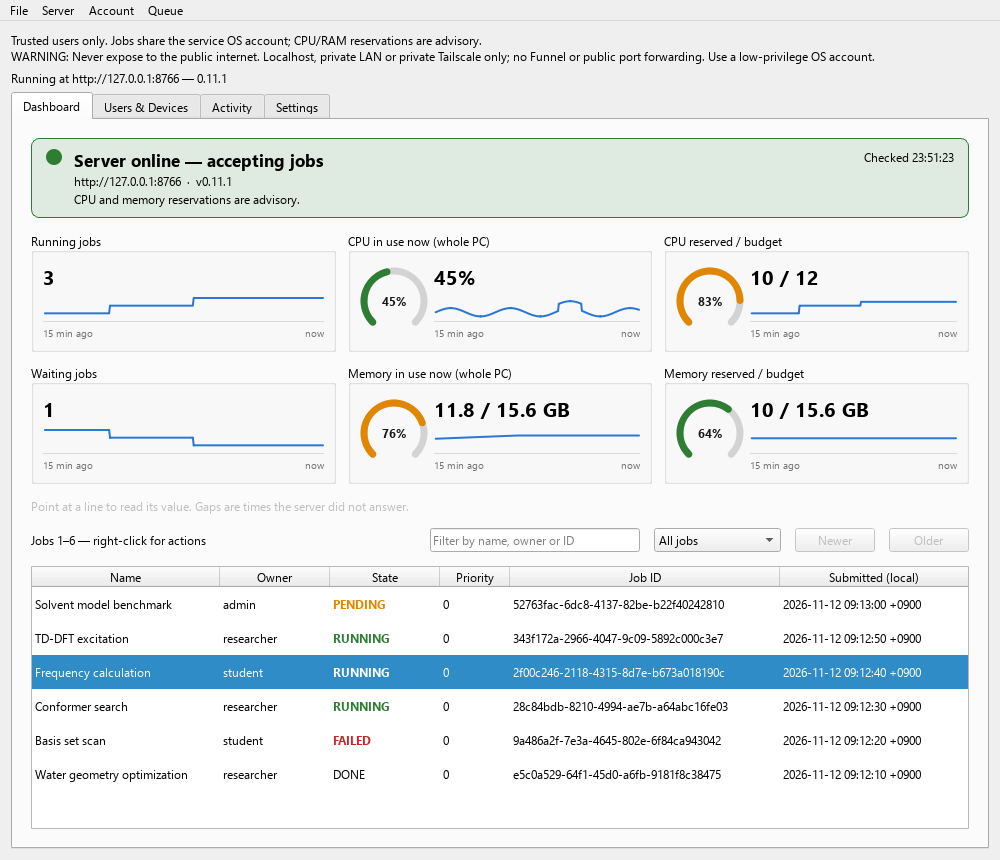
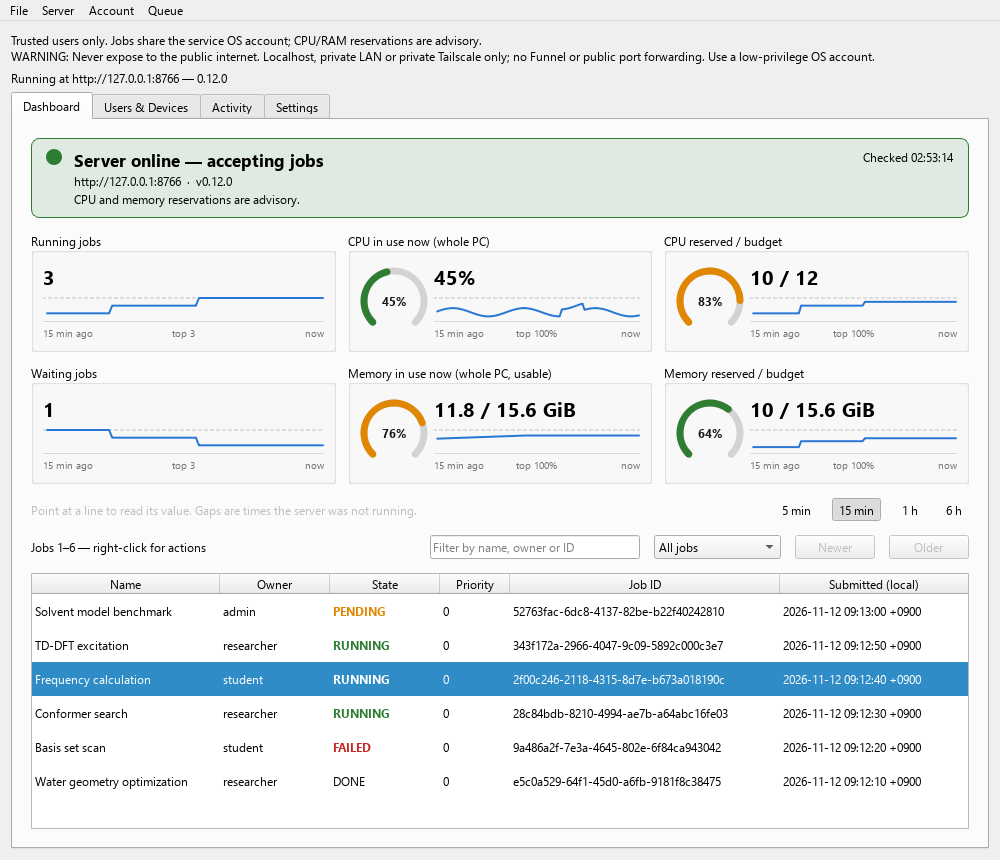
Web UI draws server history; mark the top of each trend; 0.12.0
The web overview shows the last five minutes from the server's own record
instead of the tab's readings. Both the dashboard and the Web UI draw a
dashed line at the top of the scale and name what it stands for.

diff --git a/job_server/web/app.css b/job_server/web/app.css
@@ -1,5 +1,5 @@
 @font-face{font-family:system;src:local("Segoe UI")}
-:root{font-family:system,Inter,ui-sans-serif,sans-serif;color:#193237;background:#f4f6f5;font-synthesis:none;--line:#dce5e2;--muted:#637774;--teal:#126958;--nav:#142e30}*{box-sizing:border-box}body{margin:0;display:flex;min-height:100vh}button,input,textarea,select{font:inherit}button{cursor:pointer;border:1px solid #cad8d3;background:white;border-radius:7px;color:#254b44;font-size:13px;font-weight:600;padding:10px 15px;white-space:nowrap}button:hover{background:#edf5f1}tr.clickable{cursor:pointer}tr.clickable:hover td{background:#f3f8f6}button:disabled{opacity:.45;cursor:default}button:focus-visible,a:focus-visible{outline:3px solid #78cbb1;outline-offset:3px}.primary{background:var(--teal);color:white;border-color:var(--teal)}.primary:hover{background:#0e5144}[hidden]{display:none!important}.sidebar{width:236px;background:var(--nav);color:#dcece6;padding:35px 24px;position:fixed;inset:0 auto 0 0;display:flex;flex-direction:column}.brand{display:flex;align-items:center;gap:12px;text-decoration:none;color:white;font-size:19px;font-weight:700;letter-spacing:-.5px}.brand-mark{background:#b8e4ca;border-radius:10px;width:36px;height:36px;display:grid;place-items:center;color:#164f3d;font-size:23px}.brand small{display:block;font-size:9px;letter-spacing:2.3px;font-weight:500;margin-top:4px;color:#9bb9ad}.nav-caption{font-size:10px;letter-spacing:1.5px;color:#83a69b;margin:62px 12px 16px}.nav{width:100%;text-align:left;border:0;background:transparent;color:#a8c4bb;margin:3px 0;padding:14px 16px}.nav.active,.nav:hover{background:#244541;color:#e2f8e9}.sidebar-bottom{margin-top:auto;border-top:1px solid #35524c;padding-top:26px}.preview{font-size:9px;letter-spacing:1.4px;color:#b8ddc7}.sidebar-bottom p{font-size:12px;color:#8fb0a4;line-height:1.8}.quiet{border-color:#446b5d;background:transparent;color:white}main{margin-left:236px;padding:42px 48px;width:calc(100% - 236px);max-width:1600px}header{display:flex;justify-content:space-between;align-items:center;margin-bottom:38px}.eyebrow{font-size:10px;font-weight:700;letter-spacing:1.8px;color:var(--muted)}h1{font-size:30px;font-weight:600;margin:10px 0 0;letter-spacing:-1px}.connection{display:flex;align-items:center;gap:9px;font-size:12px;color:var(--muted)}.dot{height:7px;width:7px;display:block;border-radius:50%;background:#c5ccca}.dot.online{background:#2e956f}.connection button{margin-left:15px}.welcome{background:#e2eee7;border:1px solid #d5e5da;padding:34px 38px;border-radius:12px;display:flex;align-items:center;justify-content:space-between;gap:20px}.welcome .eyebrow{color:#477765}h2{font-size:22px;font-weight:600;letter-spacing:-.6px}.welcome h2{font-size:30px;line-height:1.2;margin:14px 0}.welcome p{color:#567368;font-size:14px;line-height:1.7;margin-bottom:0}.welcome .primary{padding:13px 19px}.welcome .primary span{padding-left:20px}.metrics{display:grid;grid-template-columns:repeat(4,1fr);gap:16px;margin:24px 0 38px}.metrics article{background:white;border:1px solid var(--line);border-radius:10px;padding:24px}.metrics span{display:block;color:var(--muted);font-size:12px}.metrics strong{display:block;font-size:32px;font-weight:500;margin:13px 0;letter-spacing:-1px}.metrics small{font-size:11px;color:#7e9189}.metrics article{position:relative}.dial{position:absolute;top:14px;right:14px;width:50px;height:50px}.dial path{fill:none;stroke-width:4.5;stroke-linecap:round}.dial-track{stroke:#e3e9e7}.dial-value{stroke:#2e7d32}.dial-text{font-size:10px;font-weight:600;fill:#52655f;text-anchor:middle}.dial-value.warn{stroke:#e08600}.dial-value.high{stroke:#c62828}.dial-value.unknown{opacity:0}.trend{margin-top:12px}.trend svg{display:block;width:100%;height:30px;overflow:visible}.trend-base{stroke:#e3e9e7;stroke-width:1}.trend-line{fill:none;stroke:#2a78d6;stroke-width:2;stroke-linejoin:round;stroke-linecap:round}.trend-cross{stroke:#9aa9a4;stroke-width:1}.trend-dot{fill:#2a78d6;stroke:white;stroke-width:2}.trend-axis{display:flex;justify-content:space-between;font-size:10px;color:#8d9d97;margin-top:3px}.trend-tip{position:fixed;z-index:20;pointer-events:none;background:#193237;color:white;font-size:12px;padding:5px 8px;border-radius:6px;white-space:nowrap}.section-head{display:flex;justify-content:space-between;align-items:center;margin:20px 0}.section-head h2,.section-head h3{margin:0 0 7px}.section-head p{margin:0;color:var(--muted);font-size:12px}.actions{display:flex;gap:8px}.table-wrap{background:white;border:1px solid var(--line);border-radius:10px;overflow:auto}table{border-collapse:collapse;width:100%;text-align:left;font-size:13px}th{background:#fafcfa;color:#7a8e85;font-size:10px;text-transform:uppercase;letter-spacing:1px;font-weight:600;padding:18px 22px;border-bottom:1px solid var(--line)}td{padding:19px 22px;border-bottom:1px solid #edf1ed}tr:last-child td{border:0}.job-name{font-weight:600}.job-id{display:block;color:#8a9b95;font-size:10px;margin-top:5px}.badge{display:inline-block;font-size:10px;letter-spacing:.4px;padding:6px 9px;border-radius:5px;background:#edf1ef;color:#60766a}.badge.running,.badge.done{background:#dff0e6;color:#21694c}.badge.pending,.badge.queued,.badge.uploading{background:#fbefd6;color:#92692c}.badge.failed,.badge.lost,.badge.cancelled,.badge.blocked{background:#f8e5e0;color:#9f5546}.empty{text-align:center;color:#8a9b92;padding:70px 20px}.footnote{font-size:11px;line-height:1.7;color:#86998f;margin-top:26px}.notice{background:#fff3d4;border:1px solid #ecd5a1;border-radius:7px;padding:14px 20px;font-size:13px;margin-bottom:20px}.card{background:white;border:1px solid var(--line);padding:28px;border-radius:10px}.form-card{max-width:830px}label{display:block;font-size:12px;font-weight:600;margin-bottom:20px;color:#466356}input,textarea,select{display:block;width:100%;border:1px solid #ccd9d1;border-radius:6px;background:#fbfdfb;color:#244737;padding:12px;margin-top:8px;outline-color:#67b695}textarea{font-family:ui-monospace,Consolas,monospace;font-size:13px;resize:vertical}label small{display:block;font-weight:400;font-size:11px;color:#809488;margin-top:9px;line-height:1.5}.form-row{display:flex;gap:20px;align-items:end}.form-row label{flex:1}.form-actions{display:flex;justify-content:space-between;align-items:center;gap:14px;margin-top:10px}.form-actions span{font-size:12px;color:var(--muted)}.checkbox{display:flex;align-items:center;gap:10px}.checkbox input{width:16px;margin:0}.device-title{margin-top:35px}.paging{display:flex;justify-content:flex-end;align-items:center;gap:16px;margin-top:16px;font-size:12px;color:var(--muted)}pre{white-space:pre-wrap;overflow-wrap:anywhere;font:12px/1.7 ui-monospace,Consolas,monospace;background:#eaf0eb;padding:20px;border-radius:8px}.log{background:#18332e;color:#c6e4d0;min-height:180px;max-height:400px;overflow:auto}.results{padding:0;list-style:none}.results li{display:flex;justify-content:space-between;align-items:center;background:white;border-bottom:1px solid var(--line);padding:14px 18px;font-size:13px}.results small{color:var(--muted);padding-left:12px}dialog{border:1px solid var(--line);border-radius:14px;padding:34px;max-width:470px;width:calc(100vw - 40px);color:#244135}dialog::backdrop{background:#112e28aa;backdrop-filter:blur(4px)}dialog p{font-size:13px;color:var(--muted);line-height:1.6}dialog h2{font-size:26px}#login-status{color:#a65236}
+:root{font-family:system,Inter,ui-sans-serif,sans-serif;color:#193237;background:#f4f6f5;font-synthesis:none;--line:#dce5e2;--muted:#637774;--teal:#126958;--nav:#142e30}*{box-sizing:border-box}body{margin:0;display:flex;min-height:100vh}button,input,textarea,select{font:inherit}button{cursor:pointer;border:1px solid #cad8d3;background:white;border-radius:7px;color:#254b44;font-size:13px;font-weight:600;padding:10px 15px;white-space:nowrap}button:hover{background:#edf5f1}tr.clickable{cursor:pointer}tr.clickable:hover td{background:#f3f8f6}button:disabled{opacity:.45;cursor:default}button:focus-visible,a:focus-visible{outline:3px solid #78cbb1;outline-offset:3px}.primary{background:var(--teal);color:white;border-color:var(--teal)}.primary:hover{background:#0e5144}[hidden]{display:none!important}.sidebar{width:236px;background:var(--nav);color:#dcece6;padding:35px 24px;position:fixed;inset:0 auto 0 0;display:flex;flex-direction:column}.brand{display:flex;align-items:center;gap:12px;text-decoration:none;color:white;font-size:19px;font-weight:700;letter-spacing:-.5px}.brand-mark{background:#b8e4ca;border-radius:10px;width:36px;height:36px;display:grid;place-items:center;color:#164f3d;font-size:23px}.brand small{display:block;font-size:9px;letter-spacing:2.3px;font-weight:500;margin-top:4px;color:#9bb9ad}.nav-caption{font-size:10px;letter-spacing:1.5px;color:#83a69b;margin:62px 12px 16px}.nav{width:100%;text-align:left;border:0;background:transparent;color:#a8c4bb;margin:3px 0;padding:14px 16px}.nav.active,.nav:hover{background:#244541;color:#e2f8e9}.sidebar-bottom{margin-top:auto;border-top:1px solid #35524c;padding-top:26px}.preview{font-size:9px;letter-spacing:1.4px;color:#b8ddc7}.sidebar-bottom p{font-size:12px;color:#8fb0a4;line-height:1.8}.quiet{border-color:#446b5d;background:transparent;color:white}main{margin-left:236px;padding:42px 48px;width:calc(100% - 236px);max-width:1600px}header{display:flex;justify-content:space-between;align-items:center;margin-bottom:38px}.eyebrow{font-size:10px;font-weight:700;letter-spacing:1.8px;color:var(--muted)}h1{font-size:30px;font-weight:600;margin:10px 0 0;letter-spacing:-1px}.connection{display:flex;align-items:center;gap:9px;font-size:12px;color:var(--muted)}.dot{height:7px;width:7px;display:block;border-radius:50%;background:#c5ccca}.dot.online{background:#2e956f}.connection button{margin-left:15px}.welcome{background:#e2eee7;border:1px solid #d5e5da;padding:34px 38px;border-radius:12px;display:flex;align-items:center;justify-content:space-between;gap:20px}.welcome .eyebrow{color:#477765}h2{font-size:22px;font-weight:600;letter-spacing:-.6px}.welcome h2{font-size:30px;line-height:1.2;margin:14px 0}.welcome p{color:#567368;font-size:14px;line-height:1.7;margin-bottom:0}.welcome .primary{padding:13px 19px}.welcome .primary span{padding-left:20px}.metrics{display:grid;grid-template-columns:repeat(4,1fr);gap:16px;margin:24px 0 38px}.metrics article{background:white;border:1px solid var(--line);border-radius:10px;padding:24px}.metrics span{display:block;color:var(--muted);font-size:12px}.metrics strong{display:block;font-size:32px;font-weight:500;margin:13px 0;letter-spacing:-1px}.metrics small{font-size:11px;color:#7e9189}.metrics article{position:relative}.dial{position:absolute;top:14px;right:14px;width:50px;height:50px}.dial path{fill:none;stroke-width:4.5;stroke-linecap:round}.dial-track{stroke:#e3e9e7}.dial-value{stroke:#2e7d32}.dial-text{font-size:10px;font-weight:600;fill:#52655f;text-anchor:middle}.dial-value.warn{stroke:#e08600}.dial-value.high{stroke:#c62828}.dial-value.unknown{opacity:0}.trend{margin-top:12px}.trend svg{display:block;width:100%;height:30px;overflow:visible}.trend-base{stroke:#e3e9e7;stroke-width:1}.trend-top{stroke:#cad8d3;stroke-width:1;stroke-dasharray:3 3}.trend-line{fill:none;stroke:#2a78d6;stroke-width:2;stroke-linejoin:round;stroke-linecap:round}.trend-cross{stroke:#9aa9a4;stroke-width:1}.trend-dot{fill:#2a78d6;stroke:white;stroke-width:2}.trend-axis{display:flex;justify-content:space-between;font-size:10px;color:#8d9d97;margin-top:3px}.metrics{margin-bottom:12px}.span-row{display:flex;justify-content:space-between;align-items:center;gap:12px;margin:0 0 30px}.span-row small{font-size:11px;color:#8d9d97}.span-switch{display:flex;border:1px solid #cad8d3;border-radius:7px;overflow:hidden;background:white}.span-switch button{border:0;border-radius:0;padding:6px 12px;font-size:12px;color:#52655f;background:transparent}.span-switch button+button{border-left:1px solid #e3e9e7}.span-switch button.active{background:var(--teal);color:white}.trend-tip{position:fixed;z-index:20;pointer-events:none;background:#193237;color:white;font-size:12px;padding:5px 8px;border-radius:6px;white-space:nowrap}.section-head{display:flex;justify-content:space-between;align-items:center;margin:20px 0}.section-head h2,.section-head h3{margin:0 0 7px}.section-head p{margin:0;color:var(--muted);font-size:12px}.actions{display:flex;gap:8px}.table-wrap{background:white;border:1px solid var(--line);border-radius:10px;overflow:auto}table{border-collapse:collapse;width:100%;text-align:left;font-size:13px}th{background:#fafcfa;color:#7a8e85;font-size:10px;text-transform:uppercase;letter-spacing:1px;font-weight:600;padding:18px 22px;border-bottom:1px solid var(--line)}td{padding:19px 22px;border-bottom:1px solid #edf1ed}tr:last-child td{border:0}.job-name{font-weight:600}.job-id{display:block;color:#8a9b95;font-size:10px;margin-top:5px}.badge{display:inline-block;font-size:10px;letter-spacing:.4px;padding:6px 9px;border-radius:5px;background:#edf1ef;color:#60766a}.badge.running,.badge.done{background:#dff0e6;color:#21694c}.badge.pending,.badge.queued,.badge.uploading{background:#fbefd6;color:#92692c}.badge.failed,.badge.lost,.badge.cancelled,.badge.blocked{background:#f8e5e0;color:#9f5546}.empty{text-align:center;color:#8a9b92;padding:70px 20px}.footnote{font-size:11px;line-height:1.7;color:#86998f;margin-top:26px}.notice{background:#fff3d4;border:1px solid #ecd5a1;border-radius:7px;padding:14px 20px;font-size:13px;margin-bottom:20px}.card{background:white;border:1px solid var(--line);padding:28px;border-radius:10px}.form-card{max-width:830px}label{display:block;font-size:12px;font-weight:600;margin-bottom:20px;color:#466356}input,textarea,select{display:block;width:100%;border:1px solid #ccd9d1;border-radius:6px;background:#fbfdfb;color:#244737;padding:12px;margin-top:8px;outline-color:#67b695}textarea{font-family:ui-monospace,Consolas,monospace;font-size:13px;resize:vertical}label small{display:block;font-weight:400;font-size:11px;color:#809488;margin-top:9px;line-height:1.5}.form-row{display:flex;gap:20px;align-items:end}.form-row label{flex:1}.form-actions{display:flex;justify-content:space-between;align-items:center;gap:14px;margin-top:10px}.form-actions span{font-size:12px;color:var(--muted)}.checkbox{display:flex;align-items:center;gap:10px}.checkbox input{width:16px;margin:0}.device-title{margin-top:35px}.paging{display:flex;justify-content:flex-end;align-items:center;gap:16px;margin-top:16px;font-size:12px;color:var(--muted)}pre{white-space:pre-wrap;overflow-wrap:anywhere;font:12px/1.7 ui-monospace,Consolas,monospace;background:#eaf0eb;padding:20px;border-radius:8px}.log{background:#18332e;color:#c6e4d0;min-height:180px;max-height:400px;overflow:auto}.results{padding:0;list-style:none}.results li{display:flex;justify-content:space-between;align-items:center;background:white;border-bottom:1px solid var(--line);padding:14px 18px;font-size:13px}.results small{color:var(--muted);padding-left:12px}dialog{border:1px solid var(--line);border-radius:14px;padding:34px;max-width:470px;width:calc(100vw - 40px);color:#244135}dialog::backdrop{background:#112e28aa;backdrop-filter:blur(4px)}dialog p{font-size:13px;color:var(--muted);line-height:1.6}dialog h2{font-size:26px}#login-status{color:#a65236}
 @media(max-width:1100px){.sidebar{width:200px;padding:30px 18px}main{margin-left:200px;width:calc(100% - 200px);padding:32px 28px}.metrics{gap:10px}.metrics article{padding:18px}.metrics strong{font-size:25px}.welcome{padding:28px}.welcome h2{font-size:26px}}
 @media(max-width:760px){body{display:block}.sidebar{position:static;width:auto;padding:18px 20px;flex-direction:row;align-items:center;justify-content:space-between}.brand{font-size:16px}.brand-mark{width:30px;height:30px}.nav-caption,.sidebar-bottom{display:none}.sidebar nav{display:flex}.nav{padding:10px;font-size:11px;width:auto}.nav[data-panel=accounts]{max-width:95px;white-space:normal}main{margin:0;width:100%;padding:25px 18px}header{margin-bottom:24px;gap:10px}.eyebrow{font-size:9px}h1{font-size:26px}.connection{font-size:10px;gap:6px}.connection button{margin-left:3px;padding:8px}.welcome{padding:24px;align-items:start;flex-direction:column}.welcome h2{font-size:27px}.metrics{grid-template-columns:repeat(2,1fr);margin-bottom:28px}.form-row{flex-wrap:wrap}.form-row label{min-width:110px}th,td{padding:14px 12px}.job-id{max-width:140px;overflow:hidden;text-overflow:ellipsis}.actions button{padding:8px;font-size:11px}.welcome p{font-size:13px}}
 @media(max-width:760px){.connection{flex-wrap:wrap;justify-content:flex-end;max-width:65%}.connection button{margin-left:0}.connection #connection-text{max-width:140px}}

diff --git a/job_server/web/app.js b/job_server/web/app.js
@@ -29,9 +29,11 @@ function renderList(container,data,build) {
 function clearList(container) { container.replaceChildren(); delete container.dataset.rendered; }
 // Rewriting unchanged text still drops a selection the user is making in it.
 function setText(element,value) { if(element.textContent!==value)element.textContent=value; }
-// Dials and fifteen-minute trend lines for the overview figures. The samples are this
-// tab's own readings: the server keeps no history, and a reload starts the lines again.
-const HISTORY_SECONDS=900, TRENDS={running:[],pending:[],'cpu-now':[],'memory-now':[],cpu:[],memory:[]};
+// Dials and trend lines for the overview figures. The server records its load every
+// few seconds whether or not anyone is signed in; this tab fetches it a little at a time.
+const TRENDS={running:1,pending:2,'cpu-now':3,'memory-now':4,cpu:5,memory:6};
+// The web overview always shows the last five minutes.
+const trendState={rows:[],gap:30,span:300};
 const SVG='http://www.w3.org/2000/svg';
 function share(used,total) { return typeof used==='number'&&typeof total==='number'&&total>0?Math.max(0,Math.min(100,100*used/total)):null; }
 function svgElement(name,attributes) { const element=document.createElementNS(SVG,name); for(const [key,value] of Object.entries(attributes))element.setAttribute(key,String(value)); return element; }
@@ -48,15 +50,31 @@ function dial(key,value) {
   arc.setAttribute('d',known&&value>0?dialArc(value/100):'');
   arc.setAttribute('class','dial-value'+(!known||value<=0?' unknown':value>=90?' high':value>=70?' warn':''));
 }
-function record(key,value,now=Date.now()/1000) {
-  const list=TRENDS[key];list.push([now,typeof value==='number'?value:null]);
-  while(list.length&&list[0][0]<now-HISTORY_SECONDS)list.shift();
-  drawTrend(key);
+function mergeHistory(reply) {
+  if(!reply||!Array.isArray(reply.samples))return;
+  const last=trendState.rows.length?trendState.rows[trendState.rows.length-1][0]:0;
+  for(const row of reply.samples)if(row[0]>last)trendState.rows.push(row);
+  trendState.gap=3*(reply.interval||10);
+  const horizon=Date.now()/1000-trendState.span;
+  while(trendState.rows.length&&trendState.rows[0][0]<horizon)trendState.rows.shift();
+  for(const key of Object.keys(TRENDS))drawTrend(key);
 }
-function trendPoints(key,width,height) {
-  const list=TRENDS[key],values=list.map(sample=>sample[1]).filter(value=>value!==null);
-  const top=['running','pending'].includes(key)?Math.max(1,...values):100,now=list.length?list[list.length-1][0]:0;
-  return list.map(([when,value])=>({when,value,x:value===null?null:width*(1-(now-when)/HISTORY_SECONDS),y:value===null?null:2+(height-4)*(1-Math.min(value,top)/top)}));
+// The value the top of the plot stands for: 100% for a share, the largest count shown for jobs.
+function trendTop(key,rows=trendState.rows.filter(row=>row[0]>=Date.now()/1000-trendState.span)) {
+  if(!['running','pending'].includes(key))return 100;
+  return Math.max(1,...rows.map(row=>row[TRENDS[key]]).filter(value=>typeof value==='number'));
+}
+function trendPoints(key,width,height,now=Date.now()/1000) {
+  const column=TRENDS[key],rows=trendState.rows.filter(row=>row[0]>=now-trendState.span);
+  const top=trendTop(key,rows),points=[];
+  let previous=null;
+  for(const row of rows){
+    // A silence longer than a few samples is time the server was not running: break the line.
+    if(previous!==null&&row[0]-previous>trendState.gap)points.push({when:previous,value:null,x:null,y:null});
+    previous=row[0];const value=typeof row[column]==='number'?row[column]:null;
+    points.push({when:row[0],value,x:value===null?null:width*(1-(now-row[0])/trendState.span),y:value===null?null:2+(height-4)*(1-Math.min(value,top)/top)});
+  }
+  return points;
 }
 function drawTrend(key,hover=null) {
   const svg=$('#trend-'+key);if(typeof svg?.setAttribute!=='function'||typeof document.createElementNS!=='function')return;
@@ -67,7 +85,10 @@ function drawTrend(key,hover=null) {
     if(point.x===null){drawing=false;continue;}
     path+=(drawing?'L':'M')+point.x.toFixed(1)+' '+point.y.toFixed(1);drawing=true;
   }
-  const parts=[svgElement('line',{class:'trend-base',x1:0,x2:width,y1:height-0.5,y2:height-0.5}),svgElement('path',{class:'trend-line',d:path})];
+  // A dashed line marks the top of the scale, and the axis says what it stands for.
+  const top=trendTop(key),peak=$('#trend-top-'+key);
+  if(peak)peak.textContent='top '+(['running','pending'].includes(key)?top:top+'%');
+  const parts=[svgElement('line',{class:'trend-top',x1:0,x2:width,y1:2,y2:2}),svgElement('line',{class:'trend-base',x1:0,x2:width,y1:height-0.5,y2:height-0.5}),svgElement('path',{class:'trend-line',d:path})];
   if(hover)parts.push(svgElement('line',{class:'trend-cross',x1:hover.x,x2:hover.x,y1:0,y2:height}),svgElement('circle',{class:'trend-dot',cx:hover.x,cy:hover.y,r:4}));
   svg.replaceChildren(...parts);
 }
@@ -91,7 +112,8 @@ for(const key of Object.keys(TRENDS)){
   svg.addEventListener('pointerleave',()=>{$('#trend-tip').hidden=true;drawTrend(key);});
 }
 globalThis.addEventListener?.('resize',()=>{for(const key of Object.keys(TRENDS))drawTrend(key);});
-function clearTrends() { for(const key of Object.keys(TRENDS)){TRENDS[key].length=0;drawTrend(key);if(!['running','pending'].includes(key))dial(key,null);} }
+function clearTrends() { trendState.rows.length=0; for(const key of Object.keys(TRENDS)){drawTrend(key);if(!['running','pending'].includes(key))dial(key,null);} }
+
 function cores(count) { return count+(count===1?' core':' cores'); }
 function ahead(count) { return count===0 ? 'next in line' : count+' ahead'; }
 function renderQueue(queue) {
@@ -293,8 +315,10 @@ async function refresh() {
     $('#cpu-now').textContent=typeof resource.cpu_percent==='number'?Math.round(resource.cpu_percent)+'%':'—';
     $('#memory-now').textContent=typeof resource.memory_percent==='number'?gb(resource.memory_used_mb)+' / '+gb(resource.memory_total_mb):'—';
     const shares={'cpu-now':typeof resource.cpu_percent==='number'?resource.cpu_percent:null,'memory-now':typeof resource.memory_percent==='number'?resource.memory_percent:null,cpu:share(resource.reserved_cpus,resource.cpus),memory:share(resource.reserved_memory_mb,resource.memory_mb)};
-    for(const [key,value] of Object.entries(shares)){dial(key,value);record(key,value);}
-    record('running',resource.running);record('pending',resource.pending);
+    for(const [key,value] of Object.entries(shares))dial(key,value);
+    // Optional: a server from before 0.12 has no history, and the figures work without it.
+    const since=trendState.rows.length?trendState.rows[trendState.rows.length-1][0]:Math.max(0,Date.now()/1000-trendState.span);
+    try {mergeHistory(await api('GET','/system/resources/history?since='+since));} catch(error) {if(error.staleSession||error.status===401)throw error;}
     renderQueue(await api('GET','/queue'));
     state.paused=resource.paused;$('#queue-label').textContent=resource.paused?'Queue paused':'Shared queue';$('#pause').textContent=resource.paused?'Resume queue':'Pause queue';
     const page=state.page;
@@ -319,7 +343,7 @@ async function refresh() {
     filterJobs();
     $('#previous-page').disabled=state.page===0;$('#next-page').disabled=jobs.length<50;$('#page-number').textContent='Page '+(state.page+1);
     if(state.job)await detail(state.job,false);
-  } catch(error) {if(!error.staleSession){connection('Connection failed');if(state.me)for(const key of Object.keys(TRENDS))record(key,null);}throw error;
+  } catch(error) {if(!error.staleSession)connection('Connection failed');throw error;
   } finally {
     if(state.busyGeneration===generation){
       state.busy=false;

diff --git a/job_server/web/index.html b/job_server/web/index.html
@@ -20,7 +20,7 @@
     <div id="trend-tip" class="trend-tip" role="tooltip" hidden></div><div id="notice" class="notice" role="status" aria-live="polite" hidden></div>
     <p class="notice"><strong>Warning: Never expose Job Server to the public internet.</strong> Use localhost, a private LAN over HTTPS, or a private Tailscale tailnet only. No Tailscale Funnel or public port forwarding.</p>
     <section id="overview" class="panel">
-      <div class="metrics"><article><span>Running jobs</span><strong id="running">—</strong><small>Active on this server</small><div class="trend"><svg id="trend-running" aria-hidden="true"></svg><div class="trend-axis"><span>15 min ago</span><span>now</span></div></div></article><article><span>Waiting</span><strong id="pending">—</strong><small id="queue-label">Shared queue</small><div class="trend"><svg id="trend-pending" aria-hidden="true"></svg><div class="trend-axis"><span>15 min ago</span><span>now</span></div></div></article><article><svg class="dial" viewBox="0 0 44 44" aria-hidden="true"><path class="dial-track" d="M9.98 34.02A17 17 0 1 1 34.02 34.02"/><path class="dial-value unknown" id="dial-cpu-now"/><text class="dial-text" id="dial-text-cpu-now" x="22" y="25.5">—</text></svg><span>CPU in use now</span><strong id="cpu-now">—</strong><small>Whole server PC</small><div class="trend"><svg id="trend-cpu-now" aria-hidden="true"></svg><div class="trend-axis"><span>15 min ago</span><span>now</span></div></div></article><article><svg class="dial" viewBox="0 0 44 44" aria-hidden="true"><path class="dial-track" d="M9.98 34.02A17 17 0 1 1 34.02 34.02"/><path class="dial-value unknown" id="dial-memory-now"/><text class="dial-text" id="dial-text-memory-now" x="22" y="25.5">—</text></svg><span>Memory in use now</span><strong id="memory-now">—</strong><small>Used / usable GiB, whole server PC</small><div class="trend"><svg id="trend-memory-now" aria-hidden="true"></svg><div class="trend-axis"><span>15 min ago</span><span>now</span></div></div></article><article><svg class="dial" viewBox="0 0 44 44" aria-hidden="true"><path class="dial-track" d="M9.98 34.02A17 17 0 1 1 34.02 34.02"/><path class="dial-value unknown" id="dial-cpu"/><text class="dial-text" id="dial-text-cpu" x="22" y="25.5">—</text></svg><span>CPU budget</span><strong id="cpu">—</strong><small>Reserved / available cores</small><div class="trend"><svg id="trend-cpu" aria-hidden="true"></svg><div class="trend-axis"><span>15 min ago</span><span>now</span></div></div></article><article><svg class="dial" viewBox="0 0 44 44" aria-hidden="true"><path class="dial-track" d="M9.98 34.02A17 17 0 1 1 34.02 34.02"/><path class="dial-value unknown" id="dial-memory"/><text class="dial-text" id="dial-text-memory" x="22" y="25.5">—</text></svg><span>Memory budget</span><strong id="memory">—</strong><small>Reserved / available GiB</small><div class="trend"><svg id="trend-memory" aria-hidden="true"></svg><div class="trend-axis"><span>15 min ago</span><span>now</span></div></div></article></div>
+      <div class="metrics"><article><span>Running jobs</span><strong id="running">—</strong><small>Active on this server</small><div class="trend"><svg id="trend-running" aria-hidden="true"></svg><div class="trend-axis"><span class="trend-from">5 min ago</span><span id="trend-top-running"></span><span>now</span></div></div></article><article><span>Waiting</span><strong id="pending">—</strong><small id="queue-label">Shared queue</small><div class="trend"><svg id="trend-pending" aria-hidden="true"></svg><div class="trend-axis"><span class="trend-from">5 min ago</span><span id="trend-top-pending"></span><span>now</span></div></div></article><article><svg class="dial" viewBox="0 0 44 44" aria-hidden="true"><path class="dial-track" d="M9.98 34.02A17 17 0 1 1 34.02 34.02"/><path class="dial-value unknown" id="dial-cpu-now"/><text class="dial-text" id="dial-text-cpu-now" x="22" y="25.5">—</text></svg><span>CPU in use now</span><strong id="cpu-now">—</strong><small>Whole server PC</small><div class="trend"><svg id="trend-cpu-now" aria-hidden="true"></svg><div class="trend-axis"><span class="trend-from">5 min ago</span><span id="trend-top-cpu-now"></span><span>now</span></div></div></article><article><svg class="dial" viewBox="0 0 44 44" aria-hidden="true"><path class="dial-track" d="M9.98 34.02A17 17 0 1 1 34.02 34.02"/><path class="dial-value unknown" id="dial-memory-now"/><text class="dial-text" id="dial-text-memory-now" x="22" y="25.5">—</text></svg><span>Memory in use now</span><strong id="memory-now">—</strong><small>Used / usable GiB, whole server PC</small><div class="trend"><svg id="trend-memory-now" aria-hidden="true"></svg><div class="trend-axis"><span class="trend-from">5 min ago</span><span id="trend-top-memory-now"></span><span>now</span></div></div></article><article><svg class="dial" viewBox="0 0 44 44" aria-hidden="true"><path class="dial-track" d="M9.98 34.02A17 17 0 1 1 34.02 34.02"/><path class="dial-value unknown" id="dial-cpu"/><text class="dial-text" id="dial-text-cpu" x="22" y="25.5">—</text></svg><span>CPU budget</span><strong id="cpu">—</strong><small>Reserved / available cores</small><div class="trend"><svg id="trend-cpu" aria-hidden="true"></svg><div class="trend-axis"><span class="trend-from">5 min ago</span><span id="trend-top-cpu"></span><span>now</span></div></div></article><article><svg class="dial" viewBox="0 0 44 44" aria-hidden="true"><path class="dial-track" d="M9.98 34.02A17 17 0 1 1 34.02 34.02"/><path class="dial-value unknown" id="dial-memory"/><text class="dial-text" id="dial-text-memory" x="22" y="25.5">—</text></svg><span>Memory budget</span><strong id="memory">—</strong><small>Reserved / available GiB</small><div class="trend"><svg id="trend-memory" aria-hidden="true"></svg><div class="trend-axis"><span class="trend-from">5 min ago</span><span id="trend-top-memory"></span><span>now</span></div></div></article></div><div class="span-row"><small>Point at a line to read its value. Gaps are times the server was not running.</small></div>
       <details id="queue" class="card activity queue-card"><summary>Shared queue <small id="queue-summary"></small></summary><p>Everyone's running and waiting jobs, in the order the server starts them. A job ahead that waits for another job, or for its owner's limit, can be passed over. Only your own jobs open.</p><div class="table-wrap"><table><thead><tr><th>#</th><th>Job</th><th>User</th><th>Resources</th><th>State</th><th></th></tr></thead><tbody id="queue-body"></tbody></table></div></details>
       <div class="section-head"><div><h2>Jobs</h2><p id="jobs-caption">Sign in to view your jobs.</p></div><div class="actions"><input id="job-filter" type="search" placeholder="Filter this page" aria-label="Filter jobs on this page"><select id="job-state-filter" aria-label="Show jobs by state"><option value="">All jobs</option><option value="active">Unfinished</option><option value="finished">Finished</option><option value="problem">Failed or stopped</option></select><button data-panel="submit" class="primary">New job</button><button id="pause" hidden>Pause queue</button><button id="refresh">Refresh</button></div></div>
       <div class="table-wrap"><table><thead><tr><th>Job</th><th>Status</th><th>Resources</th><th>Submitted</th><th></th></tr></thead><tbody id="jobs-body"><tr><td colspan="5" class="empty">Your calculations will appear here.</td></tr></tbody></table></div>

diff --git a/job_server/ui/meters.py b/job_server/ui/meters.py
@@ -108,6 +108,10 @@ class Trend(QWidget):
         top = self.maximum if self.maximum is not None else max(values + [1.0])
         return top or 1.0
 
+    def top_label(self):
+        """What the dashed line at the top of the plot stands for."""
+        return f"top {self._scale():g}{self.unit}"
+
     def _axis_font(self):
         font = QFont(self.font())
         font.setPointSizeF(max(6.5, font.pointSizeF() - 1.5))
@@ -139,12 +143,16 @@ class Trend(QWidget):
         painter.setPen(QPen(_ink(self, 0.12), 1))
         base = self._plot_height() - 1.5
         painter.drawLine(QPointF(0, base), QPointF(self.width(), base))
+        # The top of the scale: without it a line's height says nothing.
+        painter.setPen(QPen(_ink(self, 0.22), 1, Qt.PenStyle.DashLine))
+        painter.drawLine(QPointF(0, 2), QPointF(self.width(), 2))
         # Says what the line spans; without it the width means nothing.
         painter.setFont(self._axis_font())
         painter.setPen(_ink(self, 0.55))
         axis = QRectF(0, self._plot_height(), self.width(), self.height() - self._plot_height())
         painter.drawText(axis, Qt.AlignmentFlag.AlignLeft | Qt.AlignmentFlag.AlignBottom, f"{self.span_label} ago")
         painter.drawText(axis, Qt.AlignmentFlag.AlignRight | Qt.AlignmentFlag.AlignBottom, "now")
+        painter.drawText(axis, Qt.AlignmentFlag.AlignHCenter | Qt.AlignmentFlag.AlignBottom, self.top_label())
         color = QColor(TREND_DARK if _dark(self) else TREND_LIGHT)
         path, started = QPainterPath(), False
         for _when, _value, point in self._points():

diff --git a/job_server/__init__.py b/job_server/__init__.py
@@ -1,7 +1,7 @@
 """MoleditPy Job Server: loading the plugin never starts a listener."""
 
 PLUGIN_NAME = "Job Server"
-PLUGIN_VERSION = "0.11.1"
+PLUGIN_VERSION = "0.12.0"
 PLUGIN_AUTHOR = "HiroYokoyama"
 PLUGIN_LICENSE = "LGPL-3.0-or-later"
 PLUGIN_DESCRIPTION = "Authenticated shared job queue and headless server for trusted users."

diff --git a/README.md b/README.md
@@ -25,7 +25,8 @@ Python, and an administrator runs the server from MoleditPy or the command line.
 
 - **Queue:** CPU and memory budgets, priorities, dependencies, pause and force run. The
   dashboard shows what is reserved beside what the whole PC is using right now, as dials
-  with the last 15 minutes drawn under each figure.
+  with a trend line under each figure. The server records its load every ten seconds for
+  the last six hours, whether or not anyone is signed in.
 - **Durable jobs:** jobs run in detached supervisors and a SQLite ledger tracks them, so
   closing MoleditPy or restarting the daemon does not stop a calculation.
 - **Accounts:** users and administrators, device keys, password changes and resets,
@@ -60,7 +61,7 @@ Right-click a job, user or device for its actions. The same actions are in the m
 
 | Tab | Use it to |
 |---|---|
-| **Dashboard** | See server state, live CPU and memory, reservations and jobs. Each figure has a dial and a 15-minute trend line, recorded while the window is open; point at a line to read its value. Filter jobs, open details, set priority, force run, cancel or open the job folder. The lists refresh every few seconds without moving your selection or scroll position. |
+| **Dashboard** | See server state, live CPU and memory, reservations and jobs. Each figure has a dial and a trend line; switch the lines between the last 5 minutes, 15 minutes, 1 hour and 6 hours at the bottom right, and point at a line to read its value. The dashed line is the top of the scale, named under the plot (100%, or the largest job count shown). A gap in a line is time the server was not running. Memory is shown in GiB (1024-based) of the memory the OS can use, so it reads a little lower than the size on the box. Filter jobs, open details, set priority, force run, cancel or open the job folder. The lists refresh every few seconds without moving your selection or scroll position. |
 | **Users & Devices** | Add users or administrators, reset passwords, enable, disable or delete users, switch user and administrator, and revoke devices. Change your own password. |
 | **Activity** | Read recent logins, account changes and job events. |
 | **Settings** | Set the network, budgets, commands run before each job, the job folder and the runtime. When a save changes something while the server runs, the window offers the restart that applies it. |
@@ -80,10 +81,10 @@ waiting jobs by name and owner, in the order they start, and each waiting job sa
 many jobs are ahead of it. Commands, files and output stay private to each job's owner. Administrators also get queue controls and
 **Users & devices**.
 
-The overview shows the same dials and 15-minute trend lines as the desktop window; point at
-a line to read a value. The lines are drawn from that browser tab's own readings while you
-are signed in: the server keeps no history, so they start empty after a reload and are
-cleared when you sign out.
+The overview shows the same dials as the desktop window, with the last 5 minutes drawn
+under each figure; point at a line to read a value. The lines come from the server's own
+record, so they are already there when you sign in or reload. The record is kept in
+memory only: restarting the server starts it again, and the time it was down shows as a gap.
 
 Click a job row to open it, and narrow the list by text or by state (unfinished, finished,
 failed or stopped). Each page has its own address, so the browser's Back and Forward move
